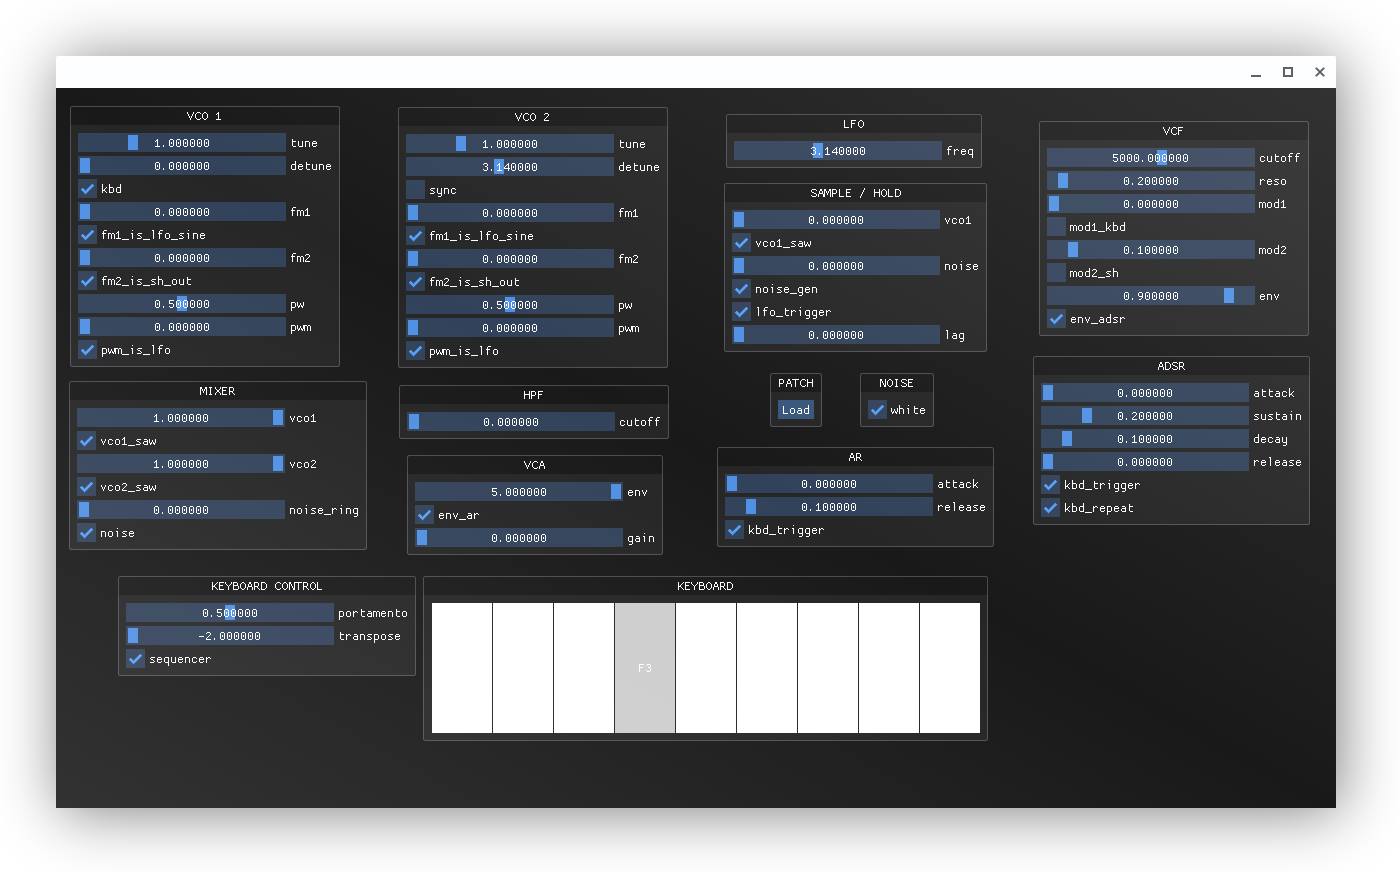
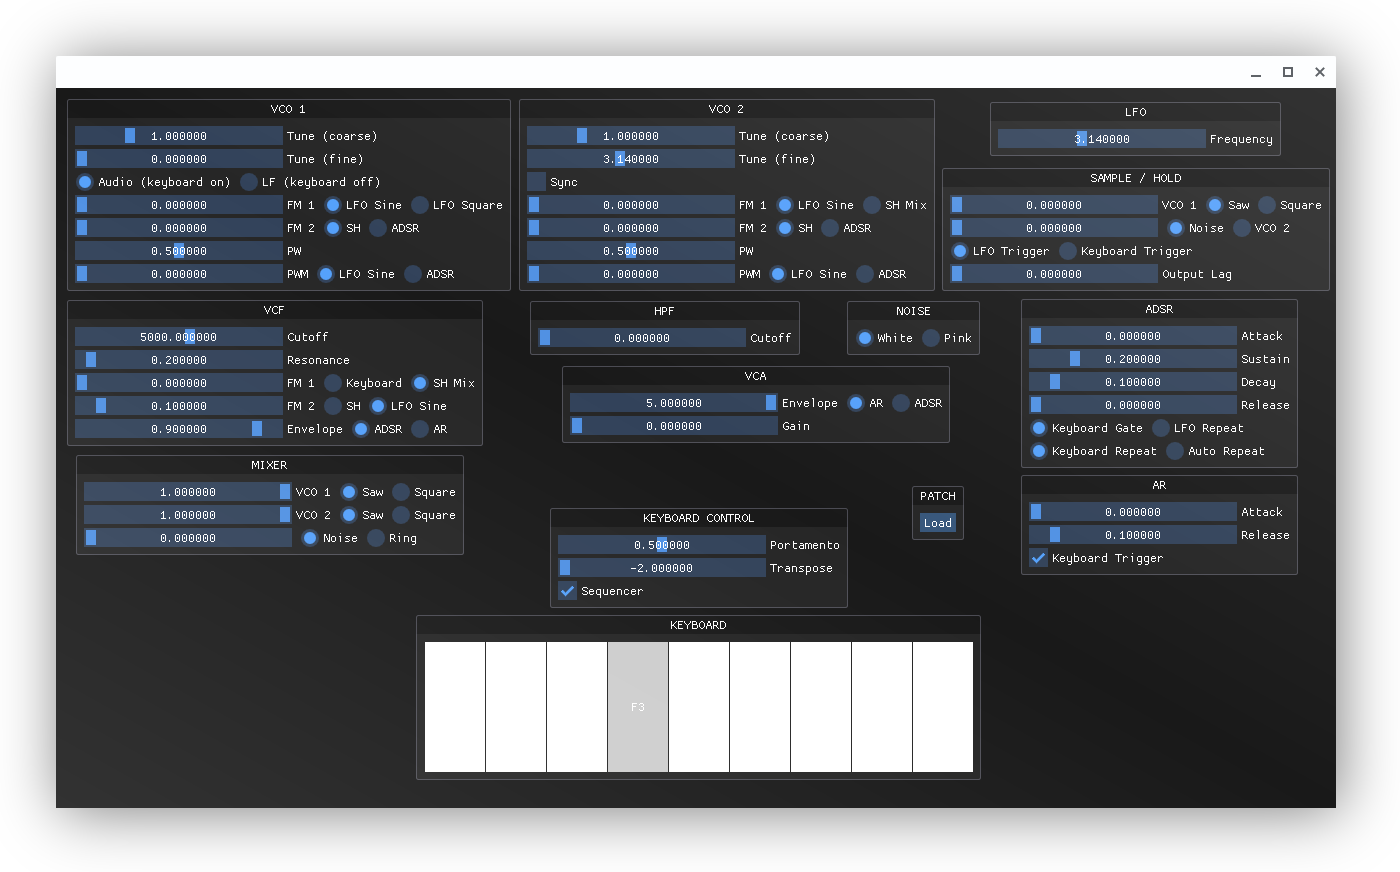
radio buttons + nicer labels

Changed region(s): [[0.0307, 0.1239, 0.9521, 0.8979]]

diff --git a/ui.cpp b/ui.cpp
@@ -66,6 +66,31 @@ void toggle(const char* name, bool* value) {
     ImGui::Checkbox(name, value);
 }
 
+void toggle(const char* name_on, const char* name_off, bool* value) {
+    int on = *value;
+    ImGui::RadioButton(name_on, &on, 1);
+    ImGui::SameLine();
+    ImGui::RadioButton(name_off, &on, 0);
+    *value = on;
+}
+
+void slider_toggle(
+    const char* name,
+    const char* name_on,
+    const char* name_off,
+    bool* bool_value,
+    float* float_value,
+    const float min,
+    const float max,
+    const float power = 1.0f
+) {
+    ImGui::PushID(float_value);
+    slider(name, float_value, min, max, power);
+    ImGui::SameLine();
+    toggle(name_on, name_off, bool_value);
+    ImGui::PopID();
+}
+
 void keyboard(Synth& synth) {
     float freq = synth.kbd.freq_target;
     bool trigger = false, gate = false;
@@ -134,97 +159,82 @@ void render(Synth& synth) {
     decoration();
 
     ImGui::Begin("VCO 1", NULL, window_flags);
-    slider("tune", &synth.vco1.tune, 0, 16, 2);
-    slider("detune", &synth.vco1.detune, 0, 16, 2);
-    toggle("kbd", &synth.vco1.kbd);
-    slider("fm1", &synth.vco1.fm1, 0, 1);
-    toggle("fm1_is_lfo_sine", &synth.vco1.fm1_is_lfo_sine);
-    slider("fm2", &synth.vco1.fm2, 0, 1);
-    toggle("fm2_is_sh_out", &synth.vco1.fm2_is_sh_out);
-    slider("pw", &synth.vco1.pw, 0, 1);
-    slider("pwm", &synth.vco1.pwm, 0, 1);
-    toggle("pwm_is_lfo", &synth.vco1.pwm_is_lfo);
+    slider("Tune (coarse)", &synth.vco1.tune, 0, 16, 2);
+    slider("Tune (fine)", &synth.vco1.detune, 0, 16, 2);
+    toggle("Audio (keyboard on)", "LF (keyboard off)", &synth.vco1.kbd);
+    slider_toggle("FM 1", "LFO Sine", "LFO Square", &synth.vco1.fm1_is_lfo_sine, &synth.vco1.fm1, 0, 1);
+    slider_toggle("FM 2", "SH", "ADSR", &synth.vco1.fm2_is_sh_out, &synth.vco1.fm2, 0, 1);
+    slider("PW", &synth.vco1.pw, 0, 1);
+    slider_toggle("PWM", "LFO Sine", "ADSR", &synth.vco1.pwm_is_lfo, &synth.vco1.pwm, 0, 1);
     ImGui::End();
 
     ImGui::Begin("VCO 2", NULL, window_flags);
-    slider("tune", &synth.vco2.tune, 0, 16, 2);
-    slider("detune", &synth.vco2.detune, 0, 16, 2);
-    toggle("sync", &synth.vco2.sync);
-    slider("fm1", &synth.vco2.fm1, 0, 1);
-    toggle("fm1_is_lfo_sine", &synth.vco2.fm1_is_lfo_sine);
-    slider("fm2", &synth.vco2.fm2, 0, 1);
-    toggle("fm2_is_sh_out", &synth.vco2.fm2_is_sh_out);
-    slider("pw", &synth.vco2.pw, 0, 1);
-    slider("pwm", &synth.vco2.pwm, 0, 1);
-    toggle("pwm_is_lfo", &synth.vco2.pwm_is_lfo);
+    slider("Tune (coarse)", &synth.vco2.tune, 0, 16, 2);
+    slider("Tune (fine)", &synth.vco2.detune, 0, 16, 2);
+    toggle("Sync", &synth.vco2.sync);
+    slider_toggle("FM 1", "LFO Sine", "SH Mix", &synth.vco2.fm1_is_lfo_sine, &synth.vco2.fm1, 0, 1);
+    slider_toggle("FM 2", "SH", "ADSR", &synth.vco2.fm2_is_sh_out, &synth.vco2.fm2, 0, 1);
+    slider("PW", &synth.vco2.pw, 0, 1);
+    slider_toggle("PWM", "LFO Sine", "ADSR", &synth.vco2.pwm_is_lfo, &synth.vco2.pwm, 0, 1);
     ImGui::End();
 
     ImGui::Begin("VCF", NULL, window_flags);
-    slider("cutoff", &synth.vcf.cutoff, 0, 16000, 2);
-    slider("reso", &synth.vcf.reso, 0, 100, 2);
-    slider("mod1", &synth.vcf.mod1, 0, 1);
-    toggle("mod1_kbd", &synth.vcf.mod1_kbd);
-    slider("mod2", &synth.vcf.mod2, 0, 1);
-    toggle("mod2_sh", &synth.vcf.mod2_sh);
-    slider("env", &synth.vcf.env, 0, 1);
-    toggle("env_adsr", &synth.vcf.env_adsr);
+    slider("Cutoff", &synth.vcf.cutoff, 0, 16000, 2);
+    slider("Resonance", &synth.vcf.reso, 0, 100, 2);
+    slider_toggle("FM 1", "Keyboard", "SH Mix", &synth.vcf.mod1_kbd, &synth.vcf.mod1, 0, 1);
+    slider_toggle("FM 2", "SH", "LFO Sine", &synth.vcf.mod2_sh, &synth.vcf.mod2, 0, 1);
+    slider_toggle("Envelope", "ADSR", "AR", &synth.vcf.env_adsr, &synth.vcf.env, 0, 1);
     ImGui::End();
 
     ImGui::Begin("LFO", NULL, window_flags);
-    slider("freq", &synth.lfo.freq, 0, 20, 2);
+    slider("Frequency", &synth.lfo.freq, 0, 20, 2);
     ImGui::End();
 
     ImGui::Begin("SAMPLE / HOLD", NULL, window_flags);
-    slider("vco1", &synth.sh.vco1, 0, 1);
-    toggle("vco1_saw", &synth.sh.vco1_saw);
-    slider("noise", &synth.sh.noise, 0, 1);
-    toggle("noise_gen", &synth.sh.noise_gen);
-    toggle("lfo_trigger", &synth.sh.lfo_trigger);
-    slider("lag", &synth.sh.lag, 0, 1);
+    slider_toggle("VCO 1", "Saw", "Square", &synth.sh.vco1_saw, &synth.sh.vco1, 0, 1);
+    slider_toggle("", "Noise", "VCO 2", &synth.sh.noise_gen, &synth.sh.noise, 0, 1);
+    toggle("LFO Trigger", "Keyboard Trigger", &synth.sh.lfo_trigger);
+    slider("Output Lag", &synth.sh.lag, 0, 1);
     ImGui::End();
 
     ImGui::Begin("NOISE", NULL, window_flags);
-    toggle("white", &synth.noise.white);
+    toggle("White", "Pink", &synth.noise.white);
     ImGui::End();
 
     ImGui::Begin("MIXER", NULL, window_flags);
-    slider("vco1", &synth.mix.vco1, 0, 1);
-    toggle("vco1_saw", &synth.mix.vco1_saw);
-    slider("vco2", &synth.mix.vco2, 0, 1);
-    toggle("vco2_saw", &synth.mix.vco2_saw);
-    slider("noise_ring", &synth.mix.noise_ring, 0, 1);
-    toggle("noise", &synth.mix.noise);
+    slider_toggle("VCO 1", "Saw", "Square", &synth.mix.vco1_saw, &synth.mix.vco1, 0, 1);
+    slider_toggle("VCO 2", "Saw", "Square", &synth.mix.vco2_saw, &synth.mix.vco2, 0, 1);
+    slider_toggle("", "Noise", "Ring", &synth.mix.noise, &synth.mix.noise_ring, 0, 1);
     ImGui::End();
 
     ImGui::Begin("HPF", NULL, window_flags);
-    slider("cutoff", &synth.hpf.cutoff, 0, 16000, 2);
+    slider("Cutoff", &synth.hpf.cutoff, 0, 16000, 2);
     ImGui::End();
 
     ImGui::Begin("AR", NULL, window_flags);
-    slider("attack", &synth.ar.attack, 0, 1);
-    slider("release", &synth.ar.release, 0, 1);
-    toggle("kbd_trigger", &synth.ar.kbd_trigger);
+    slider("Attack", &synth.ar.attack, 0, 1);
+    slider("Release", &synth.ar.release, 0, 1);
+    toggle("Keyboard Trigger", &synth.ar.kbd_trigger);
     ImGui::End();
 
     ImGui::Begin("ADSR", NULL, window_flags);
-    slider("attack", &synth.adsr.attack, 0, 1);
-    slider("sustain", &synth.adsr.sustain, 0, 1);
-    slider("decay", &synth.adsr.decay, 0, 1);
-    slider("release", &synth.adsr.release, 0, 1);
-    toggle("kbd_trigger", &synth.adsr.kbd_trigger);
-    toggle("kbd_repeat", &synth.adsr.kbd_repeat);
+    slider("Attack", &synth.adsr.attack, 0, 1);
+    slider("Sustain", &synth.adsr.sustain, 0, 1);
+    slider("Decay", &synth.adsr.decay, 0, 1);
+    slider("Release", &synth.adsr.release, 0, 1);
+    toggle("Keyboard Gate", "LFO Repeat", &synth.adsr.kbd_trigger);
+    toggle("Keyboard Repeat", "Auto Repeat", &synth.adsr.kbd_repeat);
     ImGui::End();
 
     ImGui::Begin("VCA", NULL, window_flags);
-    slider("env", &synth.vca.env, 0, 1);
-    toggle("env_ar", &synth.vca.env_ar);
-    slider("gain", &synth.vca.gain, 0, 1);
+    slider_toggle("Envelope", "AR", "ADSR", &synth.vca.env_ar, &synth.vca.env, 0, 1);
+    slider("Gain", &synth.vca.gain, 0, 1);
     ImGui::End();
 
     ImGui::Begin("KEYBOARD CONTROL", NULL, window_flags);
-    slider("portamento", &synth.kbd.portamento, 0, 1);
-    slider("transpose", &synth.kbd.transpose, -2, 2);
-    toggle("sequencer", &synth.kbd.sequencer);
+    slider("Portamento", &synth.kbd.portamento, 0, 1);
+    slider("Transpose", &synth.kbd.transpose, -2, 2);
+    toggle("Sequencer", &synth.kbd.sequencer);
     ImGui::End();
 
     ImGui::Begin("KEYBOARD", NULL, window_flags);
